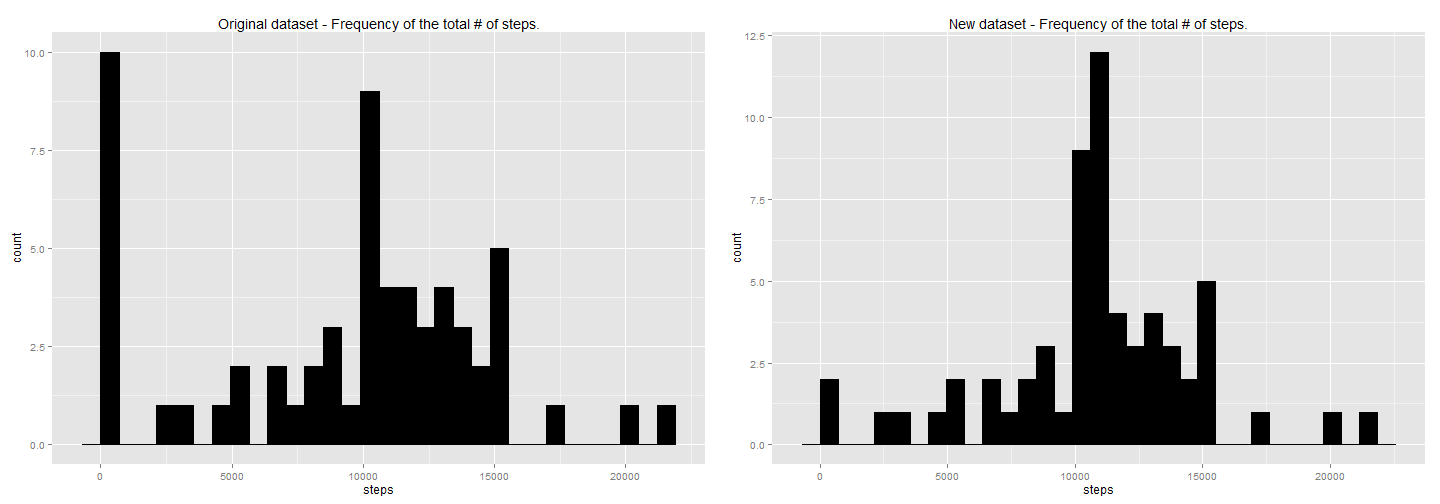
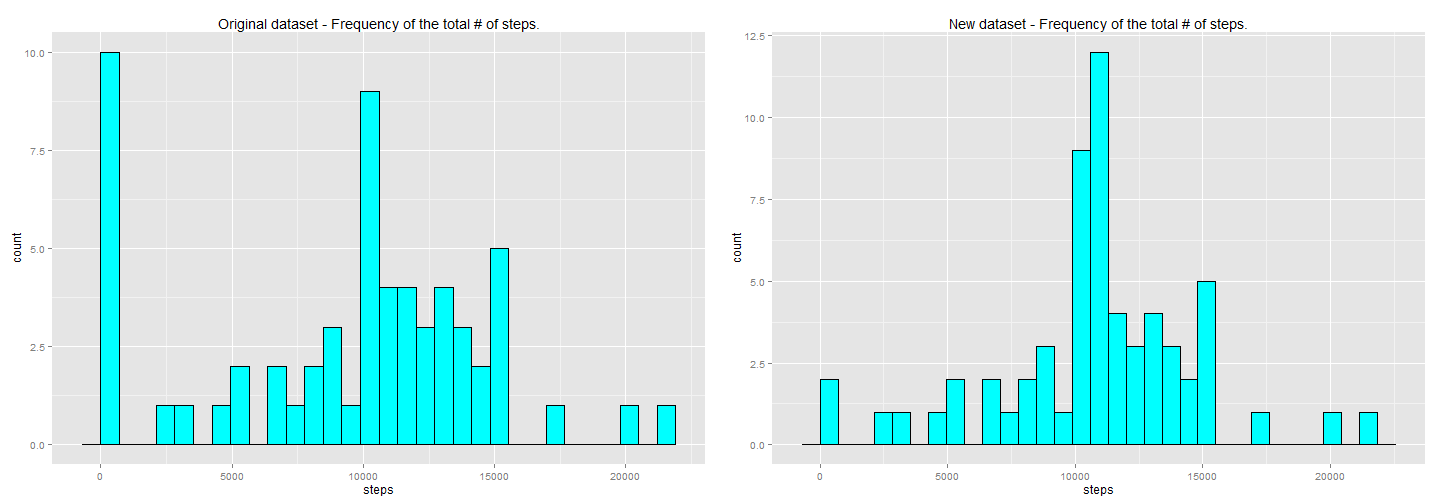
Changed a few graphs and output a little bit more info.

Changed region(s): [[0.0625, 0.0893, 0.4688, 0.8929], [0.5625, 0.0893, 0.9688, 0.8929]]

diff --git a/PA1_template.md b/PA1_template.md
@@ -56,23 +56,33 @@ Plot the histogram that is expected by the assigment. This graph shows the frequ
 
 
 ```r
-plot <- ggplot(totalStepsPerDay, aes(x=steps))
-plot <- plot + geom_histogram(colour="black", fill="black")
-plot <- plot + labs(title = "Original dataset - Frequency of the total # of steps.")
-plot
-```
-
-```
-## stat_bin: binwidth defaulted to range/30. Use 'binwidth = x' to adjust this.
+hist1 <- hist(totalStepsPerDay$steps, breaks=30, xlab="Total number of steps per day", main = "Histogram of total number of steps per day")
 ```
 
 ![plot of chunk unnamed-chunk-5](figure/unnamed-chunk-5.png) 
 
+```r
+plot <- ggplot(totalStepsPerDay, aes(x=steps))
+plot <- plot + geom_histogram(colour="black", fill="cyan")
+plot <- plot + labs(title = "Original dataset - Frequency of the total # of steps.")
+```
+
 Calculate the mean and the median number of steps for each day
 
 ```r
-mean <- mean(totalStepsPerDay$steps)
-median <- median(totalStepsPerDay$steps)
+mean <- mean(totalStepsPerDay$steps);mean
+```
+
+```
+## [1] 9354
+```
+
+```r
+median <- median(totalStepsPerDay$steps);median
+```
+
+```
+## [1] 10395
 ```
 
 The mean number of steps is 9354.2295.
@@ -91,8 +101,8 @@ names(meanStepsPerInterval) <- c("interval", "steps")
 Plot that shows the average number of steps during a day
 
 ```r
-p <- qplot(as.numeric(interval), steps, data = meanStepsPerInterval, geom = c("point", "line"))
-p + xlab("Interval") + ylab("Average number of steps.")
+p <- qplot(as.integer(interval), steps, data = meanStepsPerInterval)
+p + geom_line() + xlab("Interval") + ylab("Average number of steps.")
 ```
 
 ![plot of chunk unnamed-chunk-8](figure/unnamed-chunk-8.png) 
@@ -101,7 +111,20 @@ p + xlab("Interval") + ylab("Average number of steps.")
 
 ```r
 maxSteps <- max(meanStepsPerInterval$steps, na.rm = TRUE)
+maxSteps
+```
+
+```
+## [1] 206.2
+```
+
+```r
 maxInterval <- meanStepsPerInterval[which(meanStepsPerInterval$steps == maxSteps),]$interval
+maxInterval
+```
+
+```
+## [1] "0835"
 ```
 
 The time of the day with the highest number of steps on average is 0835
@@ -111,6 +134,11 @@ The time of the day with the highest number of steps on average is 0835
 
 ```r
 numberOfNAs <- sum(is.na(data$steps))
+numberOfNAs
+```
+
+```
+## [1] 2304
 ```
 
 There are 2304 NA values is the dataset.
@@ -140,6 +168,11 @@ for(date in daysWithAllNaIntervals) {
 
 ```r
 numNaValues <- sum(is.na(newData$steps))
+numNaValues
+```
+
+```
+## [1] 0
 ```
 
 The number of NA values is the data set is 0.
@@ -151,7 +184,20 @@ newTotalStepsPerDay <- aggregate(newData$steps, list(newData$date), sum, na.rm=F
 names(newTotalStepsPerDay) <- c("date", "steps")
 
 newMean <- mean(newTotalStepsPerDay$steps)
+newMean
+```
+
+```
+## [1] 10766
+```
+
+```r
 newMedian <- median(newTotalStepsPerDay$steps)
+newMedian
+```
+
+```
+## [1] 10766
 ```
 
 The mean number of steps is 1.0766 &times; 10<sup>4</sup>.
@@ -161,7 +207,7 @@ Creating the new histogram
 
 ```r
 plot2 <- ggplot(newTotalStepsPerDay, aes(x=steps))
-plot2 <- plot2 + geom_histogram(colour="black", fill="black");
+plot2 <- plot2 + geom_histogram(colour="black", fill="cyan");
 plot2 <- plot2 + labs(title = "New dataset - Frequency of the total # of steps.")
 ```
 
